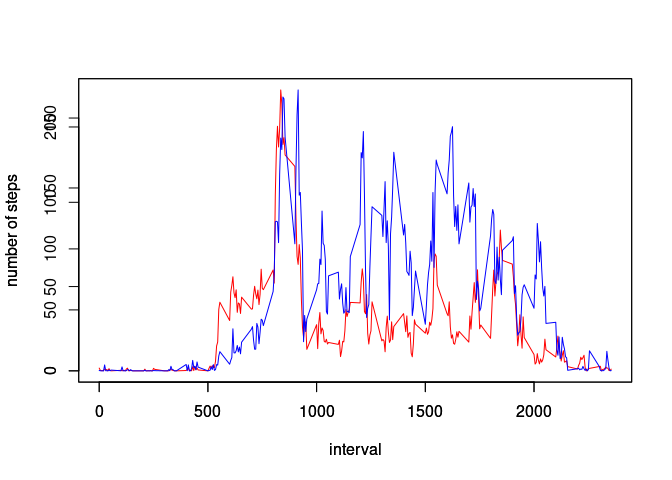
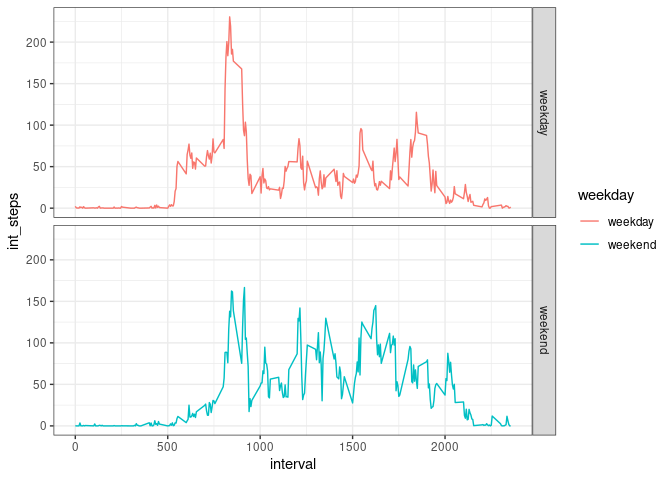
Add files via upload

diff --git a/PA1_template.md b/PA1_template.md
@@ -1,13 +1,18 @@
 ## Loading and preprocessing the data
 
+Question 1: Code for reading in the dataset and/or processing the data
+
 ``` r
 suppressMessages(library(dplyr))
-suppressMessages(library(tidyr))
 suppressMessages(library(lubridate))
+suppressMessages(library(ggplot2))
 df <- read.csv("activity.csv")
 ```
 
 ## What is mean total number of steps taken per day?
+
+Question 2: Histogram of the total number of steps taken each day
+Question 3: Mean and median number of steps taken each day
 
 ``` r
 steps_per_day <- df %>% 
@@ -27,9 +32,7 @@ mean_steps_per_day
 
 ## What is the average daily activity pattern?
 
-1.  Make a time series plot (i.e.type = “l”) of the 5-minute interval
-    (x-axis) and the average number of steps taken, averaged across all
-    days (y-axis)
+Question 4: Time series plot of the average number of steps taken.
 
 ``` r
 interval_5min <- df %>% 
@@ -41,42 +44,39 @@ plot(interval_5min$interval, interval_5min$int_steps, type="l", ylab="number of 
 
 ![](PA1_template_files/figure-markdown_github/unnamed-chunk-1-1.png)
 
-1.  Which 5-minute interval, on average across all the days in the
-    dataset, contains the maximum number of steps?
+Question 5: The 5-minute interval that, on average, contains the maximum
+number of steps
 
 ``` r
 max_step <- max(interval_5min$int_steps)
 max_5min <- interval_5min %>% 
   filter(int_steps == max_step)
+colnames(max_5min) <- c("The interval that contains the maximum number", "Maximum number of steps")
 max_5min
 ```
 
     ## # A tibble: 1 × 2
-    ##   interval int_steps
-    ##      <int>     <dbl>
-    ## 1      835      206.
+    ##   `The interval that contains the maximum number` `Maximum number of steps`
+    ##                                             <int>                     <dbl>
+    ## 1                                             835                      206.
 
 ## Imputing missing values
 
-1.  Calculate and report the total number of missing values in the
-    dataset (i.e. the total number of rows with NA.
+Question 6-1: Code to describe and show a strategy for imputing missing
+data. The number of row which contains missing values.
 
 ``` r
 include_NA <- df %>% 
   filter(is.na(steps))
 number_NA <- nrow(include_NA)
-number_NA
+paste("The number of missing values in steps is ", number_NA, ".")
 ```
 
-    ## [1] 2304
+    ## [1] "The number of missing values in steps is  2304 ."
 
-1.  Devise a strategy for filling in all of the missing values in the
-    dataset. The strategy does not need to be sophisticated. For
-    example, you could use the mean/median for that day, or the mean for
-    that 5-minute interval, etc.
-2.  Create a new dataset that is equal to the original dataset but with
-    the missing data filled in. “new_dataset” is the original dataset
-    but with the missing data filled in.
+Question 6-2: Devise a strategy for filling in all of the missing values
+in the dataset – I use the mean steps to fill the missin value. Question
+6-3: Create a new dataset – The name of new dataset is “new_dataset”.
 
 ``` r
 # I use mean values of day to fill the missing value
@@ -90,9 +90,8 @@ new_dataset <- df_add_mean %>%
   select(new_steps, date, interval)
 ```
 
-1.  Make a histogram of the total number of steps taken each day and
-    Calculate and report the mean and median total number of steps taken
-    per day.
+Question 7: Make a histogram of the total number of steps in new
+dataset. Calculate the mean and median.
 
 ``` r
 new_steps_per_day <-  new_dataset%>% 
@@ -105,23 +104,22 @@ hist(new_steps_per_day$total_steps)
 
 ``` r
 new_mean_steps_per_day <- mean(new_steps_per_day$total_steps, na.rm=TRUE)
-new_mean_steps_per_day
+paste("The mean total number of steps taken per day is ",round(new_mean_steps_per_day), ".")
 ```
 
-    ## [1] 10766.19
+    ## [1] "The mean total number of steps taken per day is  10766 ."
 
 ``` r
 new_median_steps_per_day <- median(new_steps_per_day$total_steps, na.rm=TRUE)
-new_median_steps_per_day
+paste("The mean total number of steps taken per day is ",round(new_median_steps_per_day), ".")
 ```
 
-    ## [1] 10766.19
+    ## [1] "The mean total number of steps taken per day is  10766 ."
 
 ## Are there differences in activity patterns between weekdays and weekends?
 
-1.  Create a new factor variable in the dataset with two levels –
-    “weekday” and “weekend” indicating whether a given date is a weekday
-    or weekend day.
+Question 8-1: Create a new factor variable in the dataset with two
+levels – “weekday” and “weekend”
 
 ``` r
 new_dataset_weekday<- new_dataset %>% 
@@ -129,32 +127,19 @@ new_dataset_weekday<- new_dataset %>%
   mutate(weekday = ifelse(weekday %in% c(2,3,4,5,6),"weekday","weekend"))
 ```
 
-1.  Make a panel plot containing a time series plot (i.e.type = “l”) of
-    the 5-minute interval (x-axis) and the average number of steps
-    taken, averaged across all weekday days or weekend days (y-axis).
-
-Plot weekday data as red line, and weekend data as blue line.
+Question 8-2: Panel plot comparing the average number of steps taken per
+5-minute interval across weekdays and weekends
 
 ``` r
+options(dplyr.summarise.inform = FALSE)
 interval_5min_weekday <- new_dataset_weekday %>% 
   group_by(weekday,interval) %>% 
   summarize(int_steps=mean(new_steps, na.rm=TRUE))
-```
-
-    ## `summarise()` has grouped output by 'weekday'. You can override using the
-    ## `.groups` argument.
-
-``` r
-# abstruct weekday data. And plot.
-weekday_data <- interval_5min_weekday %>% 
-  filter(weekday == "weekday")
-plot(weekday_data$interval, weekday_data$int_steps, type="l", ylab="number of steps", xlab="interval",col="red")
-par(new=T)
-
-#abstract weekend data. And plot.
-weekend_data <- interval_5min_weekday %>% 
-  filter(weekday == "weekend")
-plot(weekend_data$interval, weekend_data$int_steps, type="l", ylab="number of steps", xlab="interval", col="blue")
+interval_5min_weekday %>% 
+  ggplot(aes(x=interval, y=int_steps, color=weekday)) +
+  geom_line() +
+  facet_grid(weekday ~ .) +
+  theme_bw()
 ```
 
 ![](PA1_template_files/figure-markdown_github/unnamed-chunk-7-1.png)
